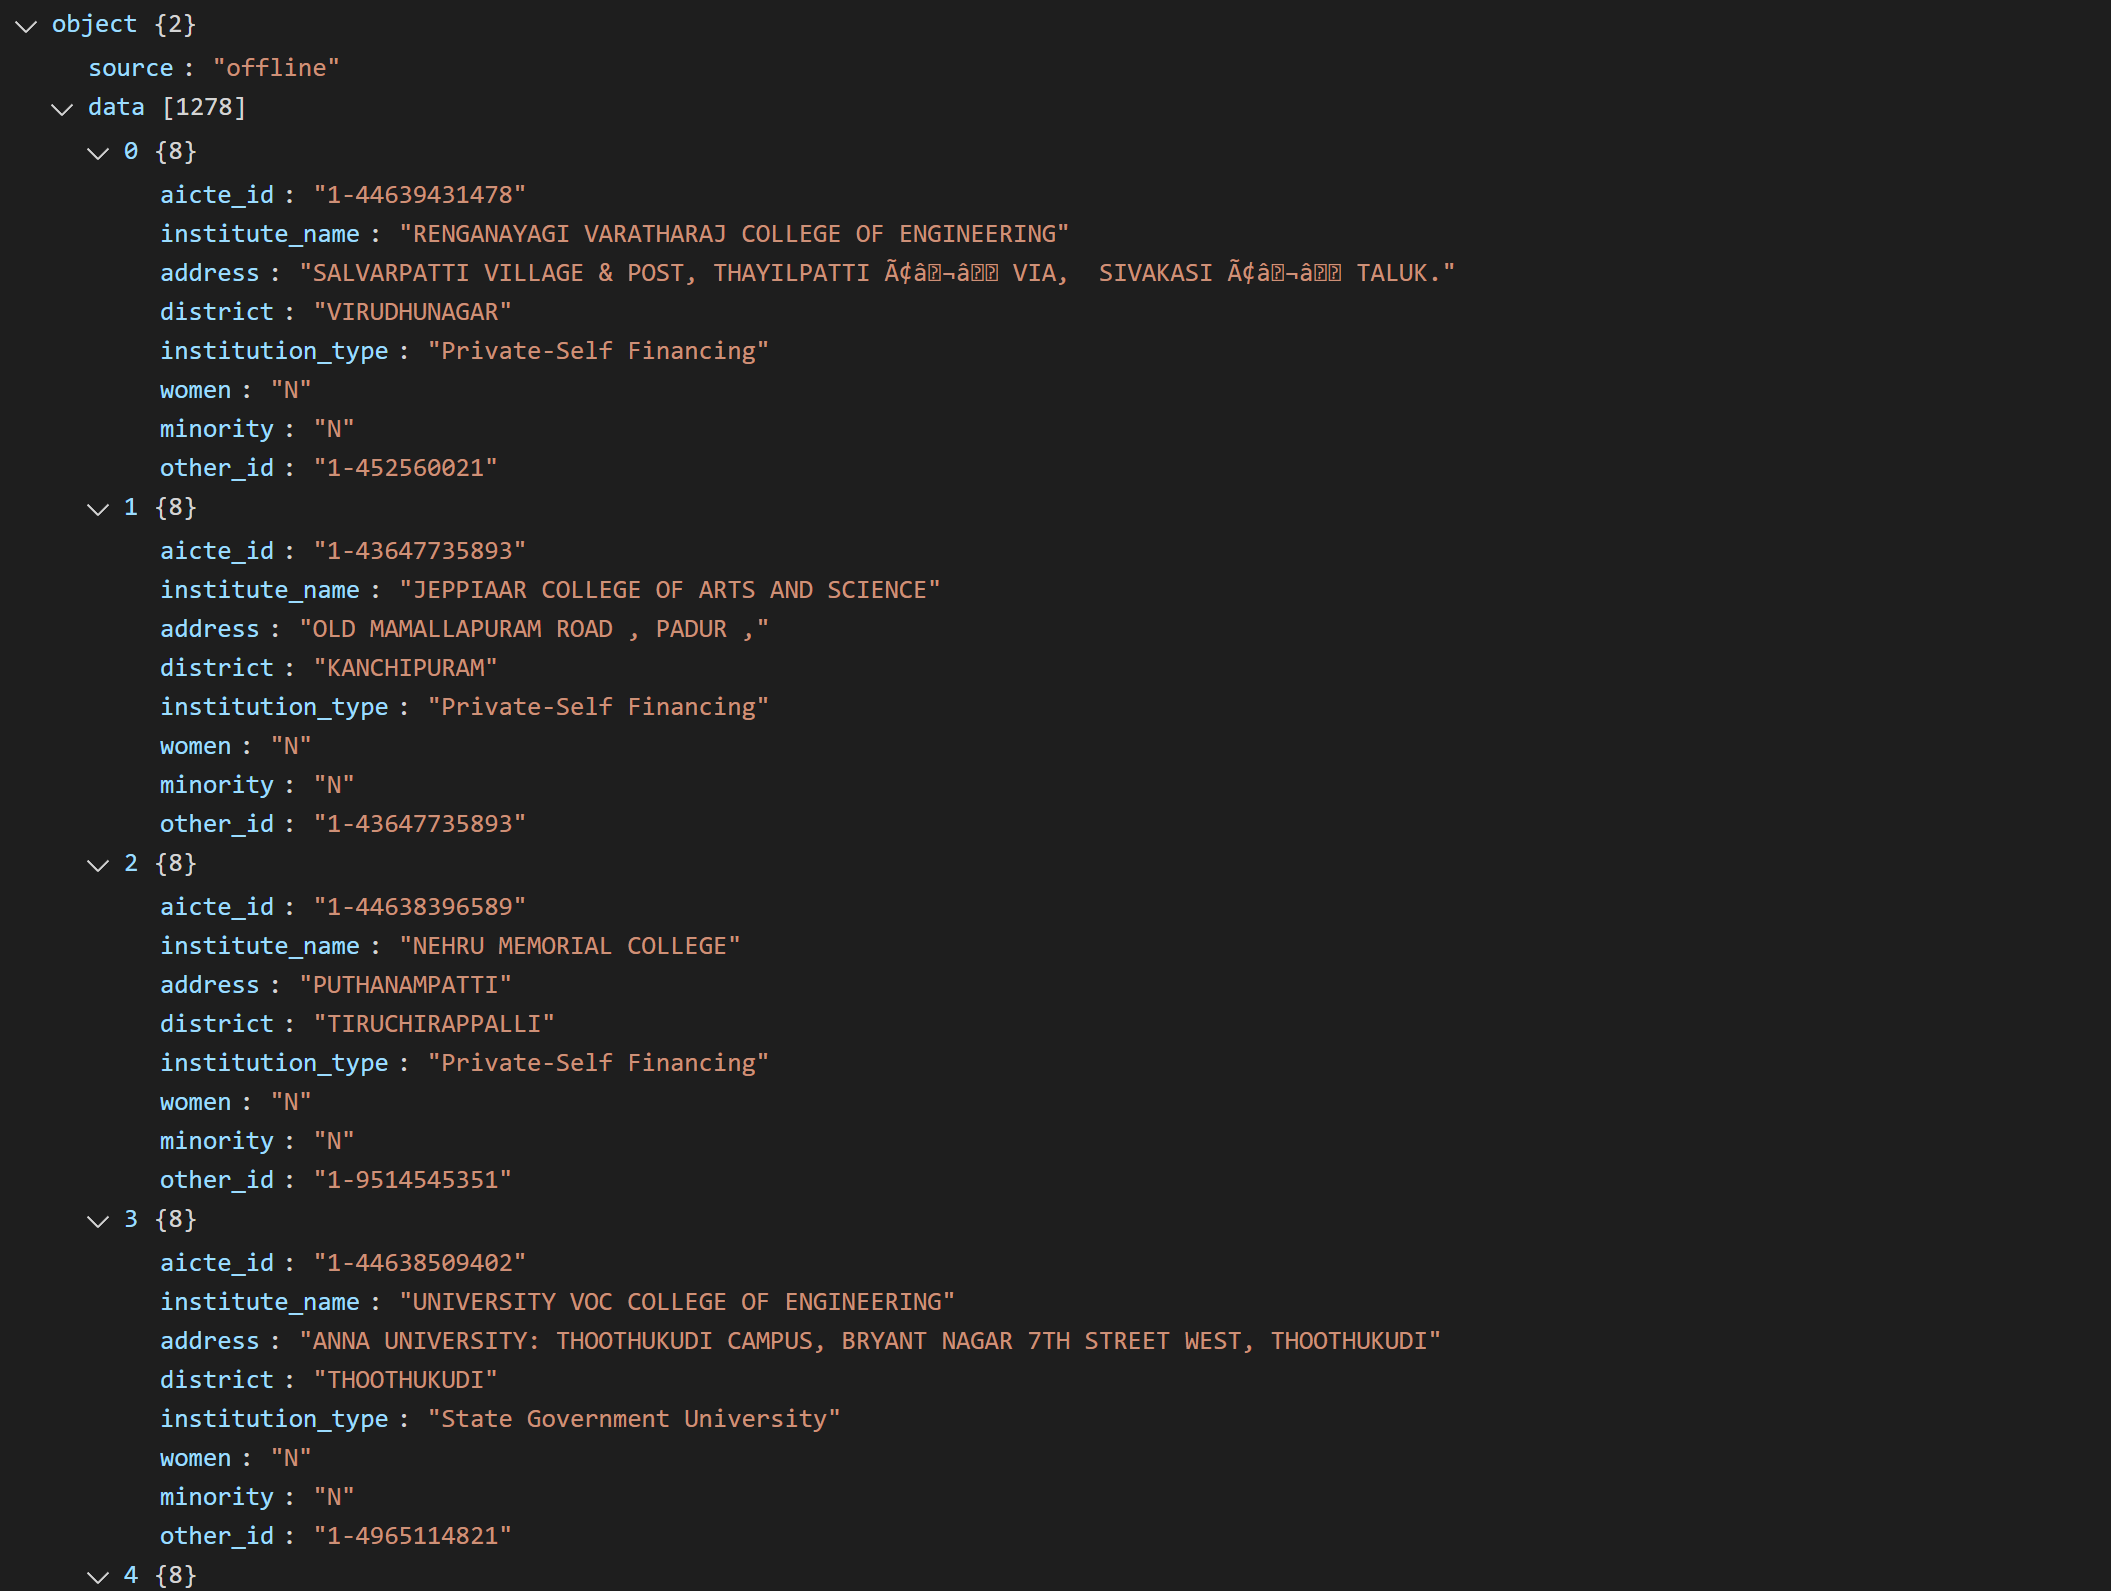
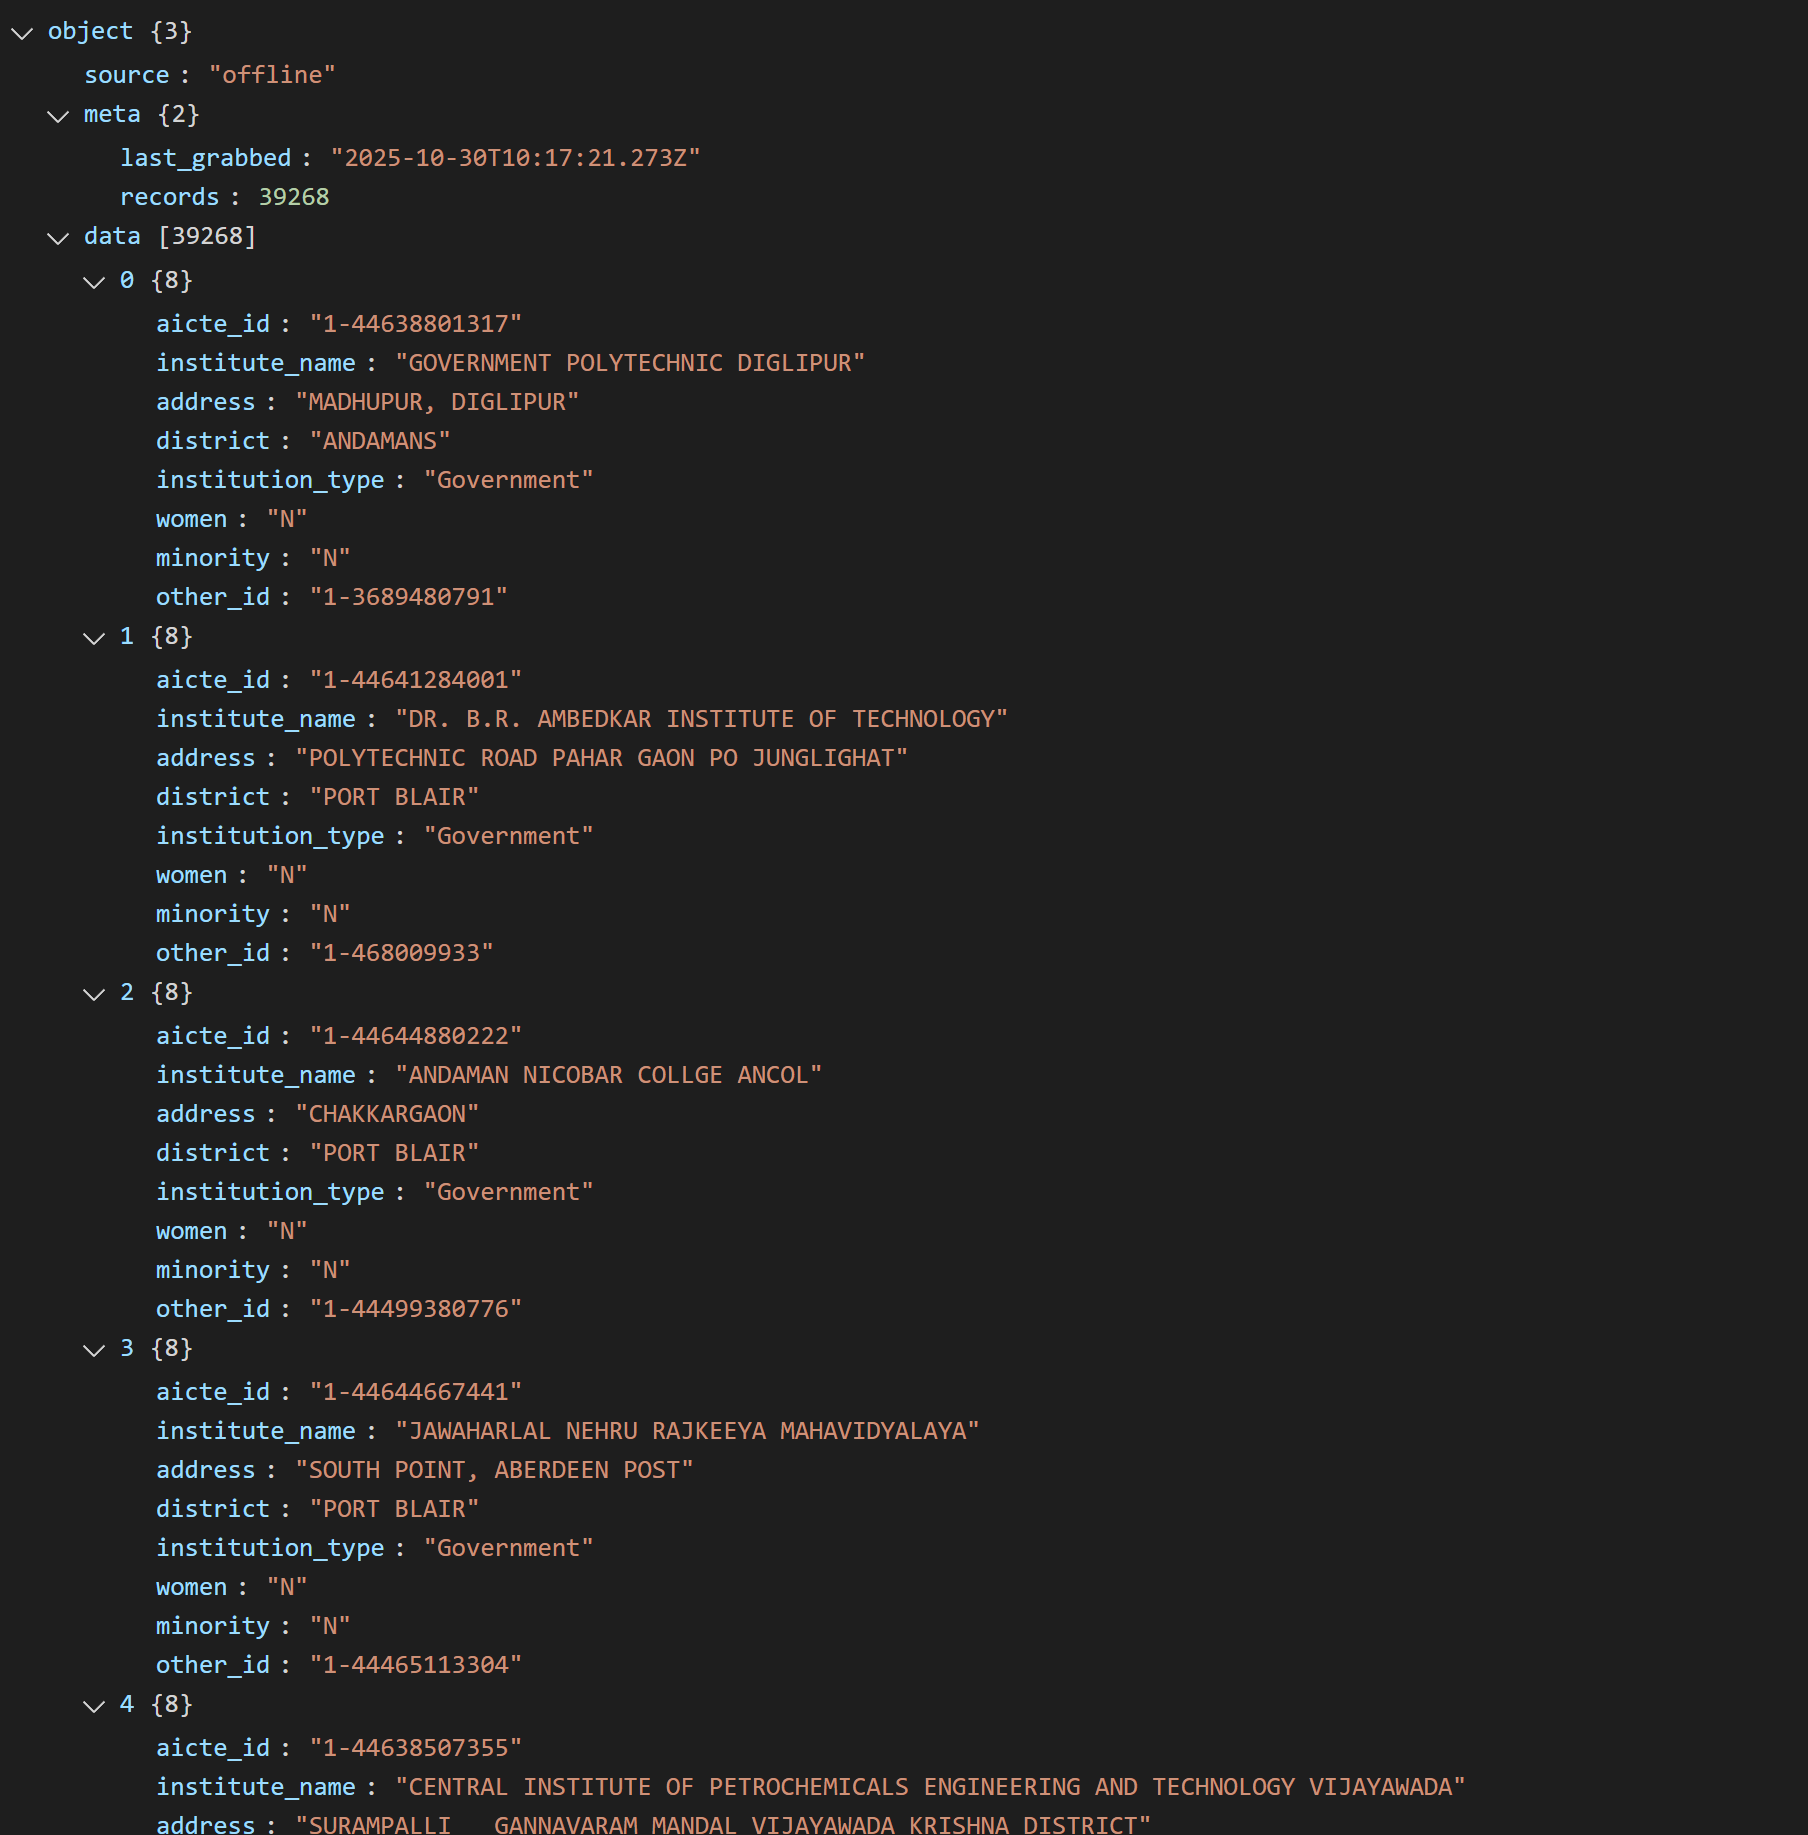
feat: update README with new API endpoints and offline-first data handling; remove outdated download script

Changed region(s): [[0.031, 0.0, 0.8053, 1.0], [0.5265, 0.154, 0.6814, 0.1848]]

diff --git a/README.md b/README.md
@@ -15,7 +15,14 @@ website.
 ## 🚀 Available Endpoints
 
 - 👉 [GET - List all Institutions](https://indian-colleges-list.vercel.app/api/institutions)
-- 👉 [GET - List all Courses offered by that institutions](https://indian-colleges-list.vercel.app/api/institution/1-44641241273?course=1&year=2025-2026)
+- 👉 [GET - List available states (state snapshots)](https://indian-colleges-list.vercel.app/api/institutions/state)
+- 👉 [GET - Get institutions for a specific state (example)](https://indian-colleges-list.vercel.app/api/institutions/state/tamil-nadu)
+<!-- - 👉 [GET - List all Courses offered by that institutions](https://indian-colleges-list.vercel.app/api/institution/1-44641241273?course=1&year=2025-2026) -->
+
+> Calling /api/institutions will load 11.9MB of data, which is time consuming. Instead you can load institutions by state api call.
+
+- The `/api/institutions` route is offline-first and serves the snapshot at `data/institutions.json` by default. Use `?online=1` to fetch fresh upstream data.
+- The downloader/merge writes a small metadata file at `data/institutions.meta.json` which contains `{ "last_grabbed": "ISO timestamp", "records": number }`. When present the `/api/institutions` response will include this metadata and the route sets an `X-Data-Source` header to indicate `offline` or `online`.
 
 ### ✅ [Download Postman Collections](https://raw.githubusercontent.com/anburocky3/indian-colleges-data/refs/heads/main/postman/Institutions.postman_collection.json)
 
